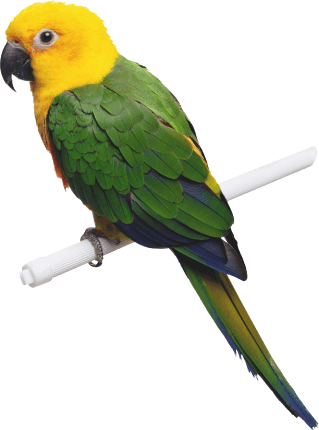
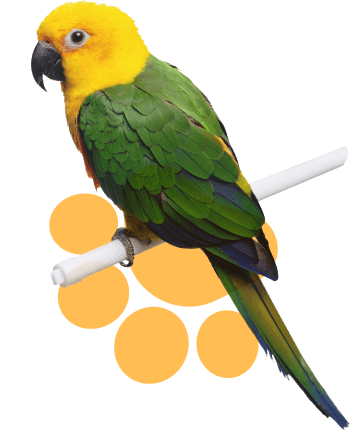
add hero-section

diff --git a/css/style.css b/css/style.css
@@ -43,7 +43,8 @@ body {
   font-family: "Futura PT Book", "Arial", sans-serif;
   font-size: 16px;
   line-height: 1.5;
-  background-color:rgba(151, 147, 147, 0.5);;
+  background-color: #E5E5E5;
+  background-image: url("../img/bg.png");
   color: #222;
 }
 
@@ -89,7 +90,6 @@ img {
   align-items: center;
   list-style: none;
   justify-content: space-between;
-  padding-right: 20px;
   padding-left: 200px;
   margin: 0;
   padding-top: 10px;
@@ -335,3 +335,63 @@ img {
   background-position: center center;
   background-repeat: no-repeat;
 }
+
+.site-main {
+  max-width: 100%;
+}
+
+.hero-section {
+  max-width: 100%;
+  background-image: url("../img/animals.png"),
+                    url("../img/bird.png");
+  background-position: calc(50% - 450px) -100px, calc(50% + 620px) bottom;
+  background-repeat: no-repeat;
+}
+
+.site-hero {
+  width: 608px;
+  margin-left: auto;
+  padding-top: 145px;
+  padding-bottom: 321px;
+}
+
+.site-hero__title {
+  margin-top: 0;
+  margin-bottom: 29px;
+  font-weight: bold;
+  font-size: 70px;
+  line-height: 64px;
+}
+
+.site-hero__title-color {
+  color: rgb(111, 194, 233);
+}
+
+.site-hero__text {
+  font-size: 16px;
+  line-height: 21px;
+  color: #949494;
+  margin-top: 0;
+  margin-bottom: 38px;
+}
+
+.site-button-black {
+  display: inline-block;
+  vertical-align: baseline;
+  text-decoration: none;
+  font-weight: 500;
+  font-size: 16px;
+  color: #FFFFFF;
+  padding: 15px 48px;
+  background-color: #333333;
+  border-radius: 5px;
+  transition: 0.3s ease;
+}
+.site-button-black:hover {
+  background: #FFBD54;
+  color: #333333;
+}
+.site-button-black:active {
+  opacity: 0.6;
+}
+

diff --git a/index.html b/index.html
@@ -63,5 +63,23 @@
         </div>
       </div>
   </header>
+
+  <main class="site-main">
+    <section class="hero-section">
+      <div class="container">
+        <div class="site-hero">
+          <h1 class="site-hero__title">
+            Мы заботимся о <span class="site-hero__title-color">ваших питомцах!</span>
+          </h1>
+          <p class="site-hero__text">
+            Вам и Вашему любимцу множество услуг по диагностике, профилактике заболеваний по лечению и уходу за Вашими животными. Профессионалы работающие в нашей клинике сделают все для того, чтобы быстро, эффективно и максимально безболезненно выполнить любие процедуры, которые необходимы Вашему домашнему любимцу.
+          </p>
+          <a class="site-button-black" href="#">Наши услуги</a>
+        </div>
+      </div>
+    </section>
+
+
+  </main>
 </body>
 </html>
